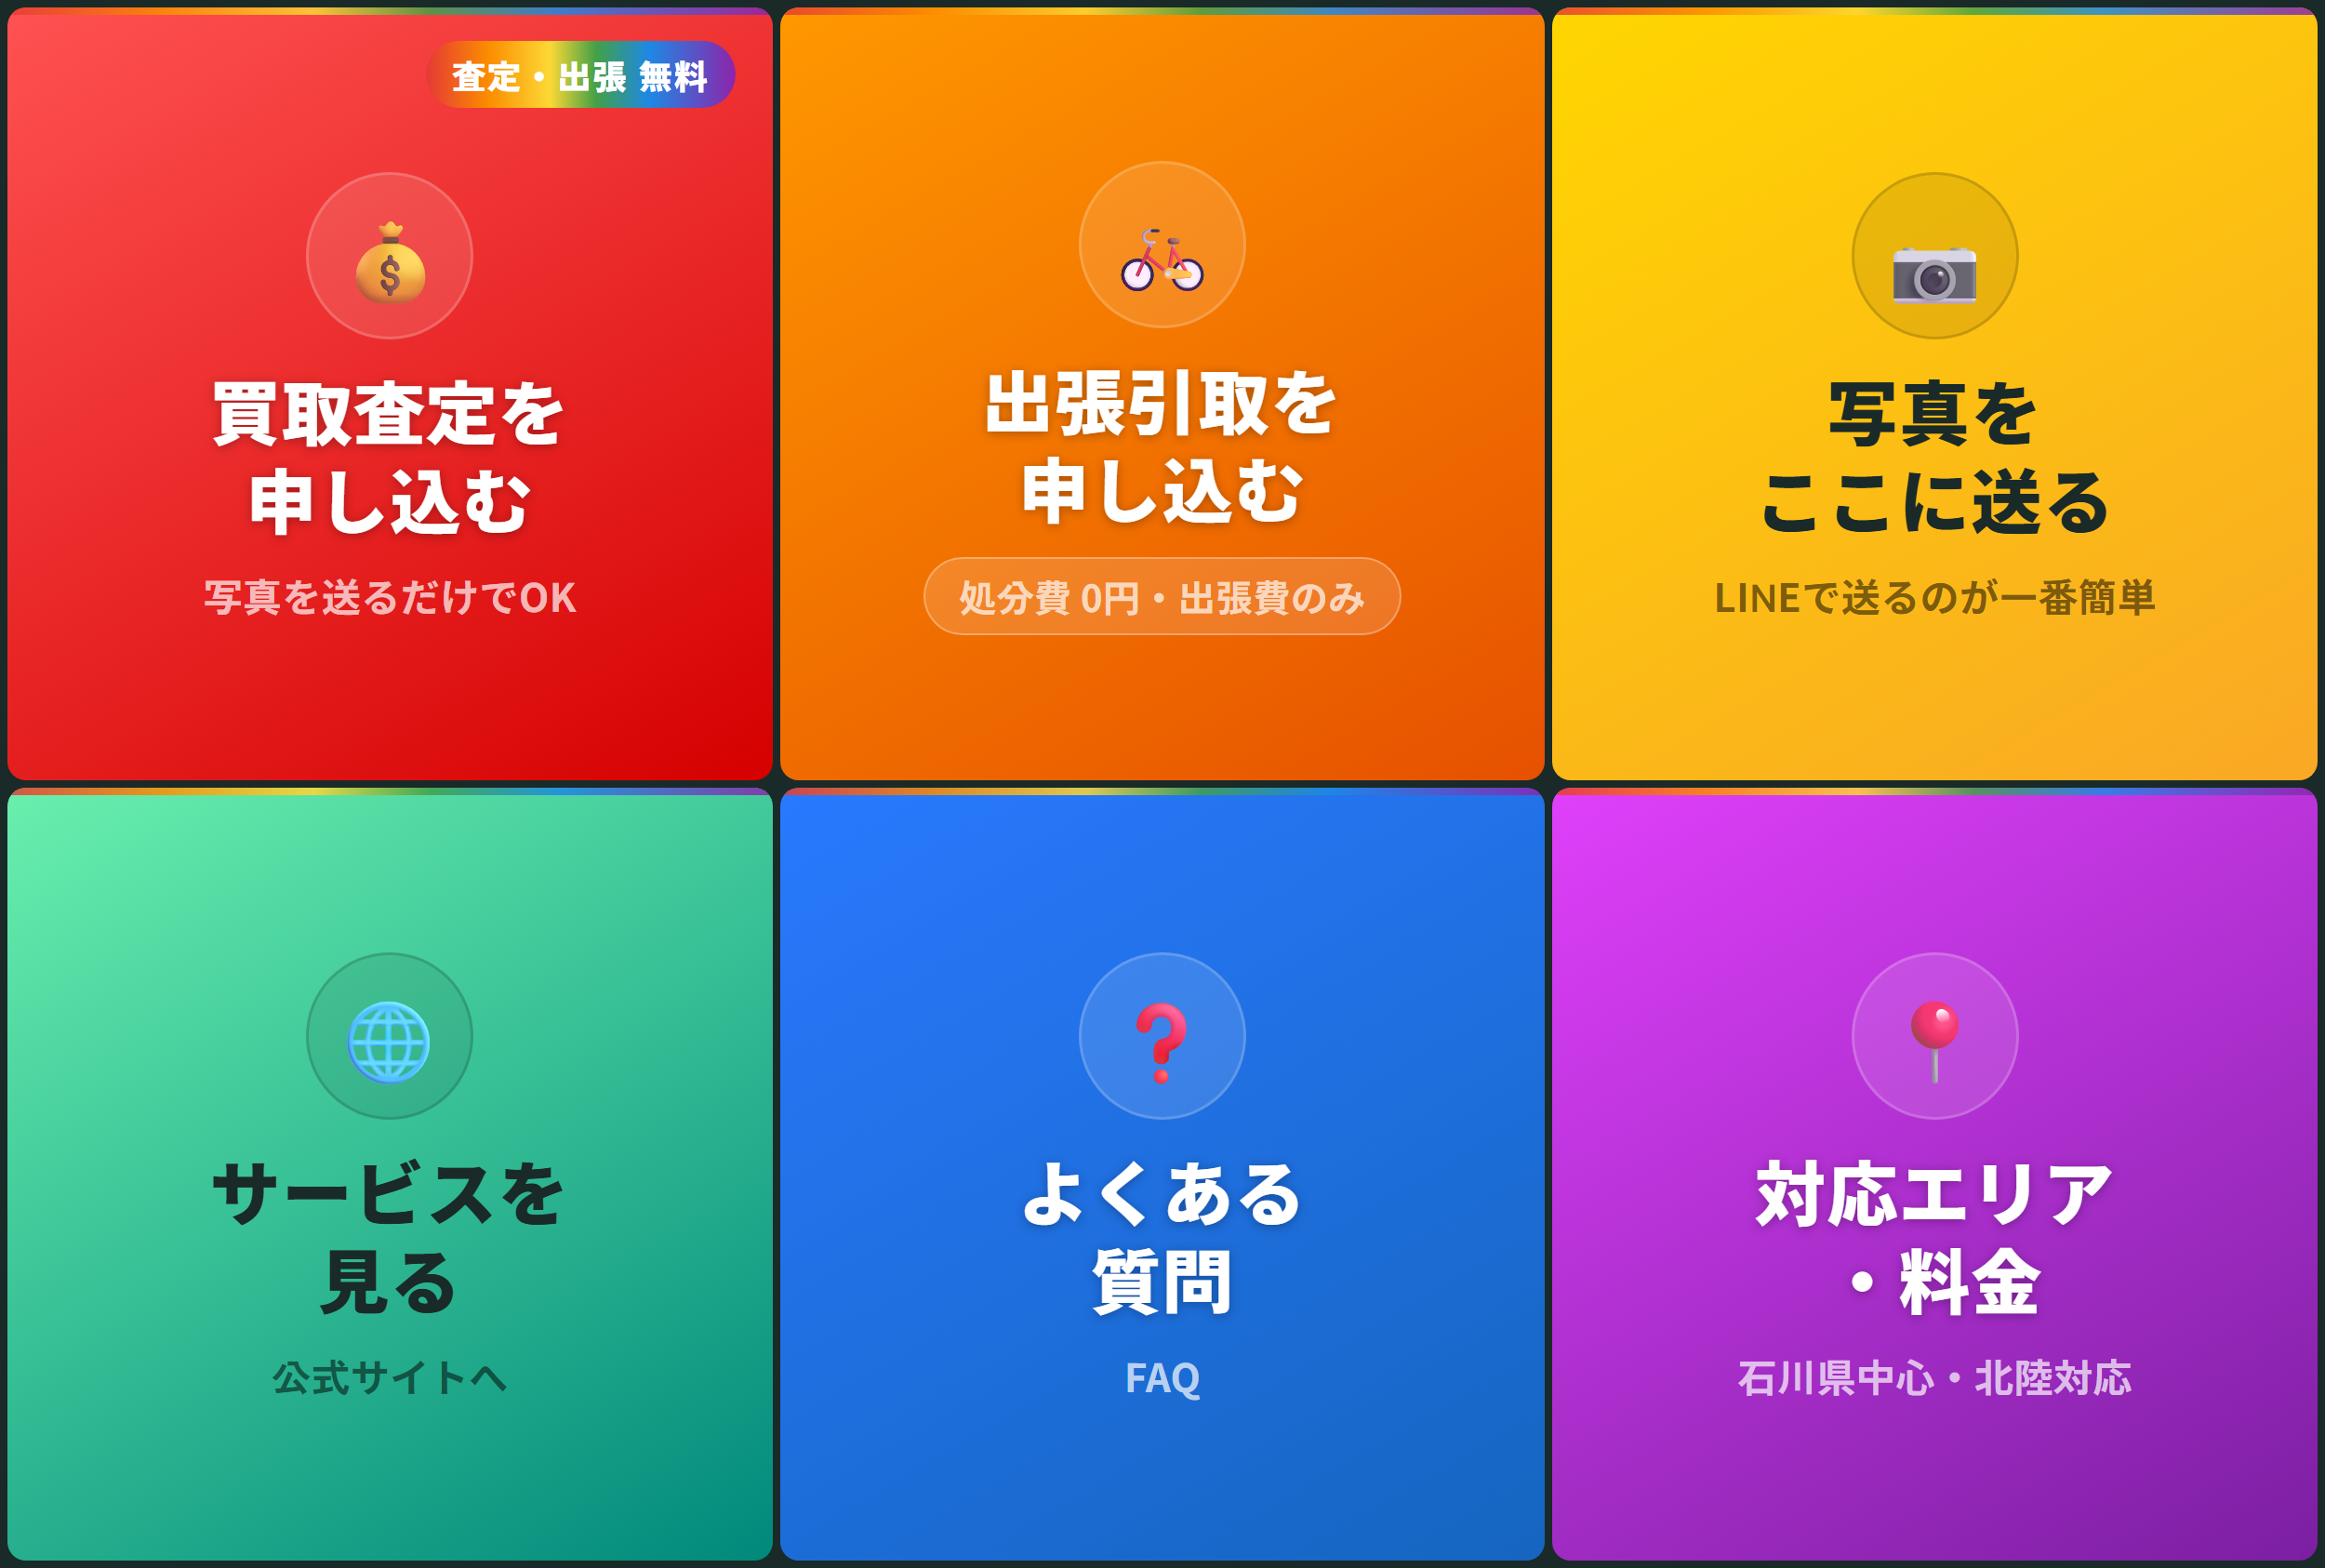
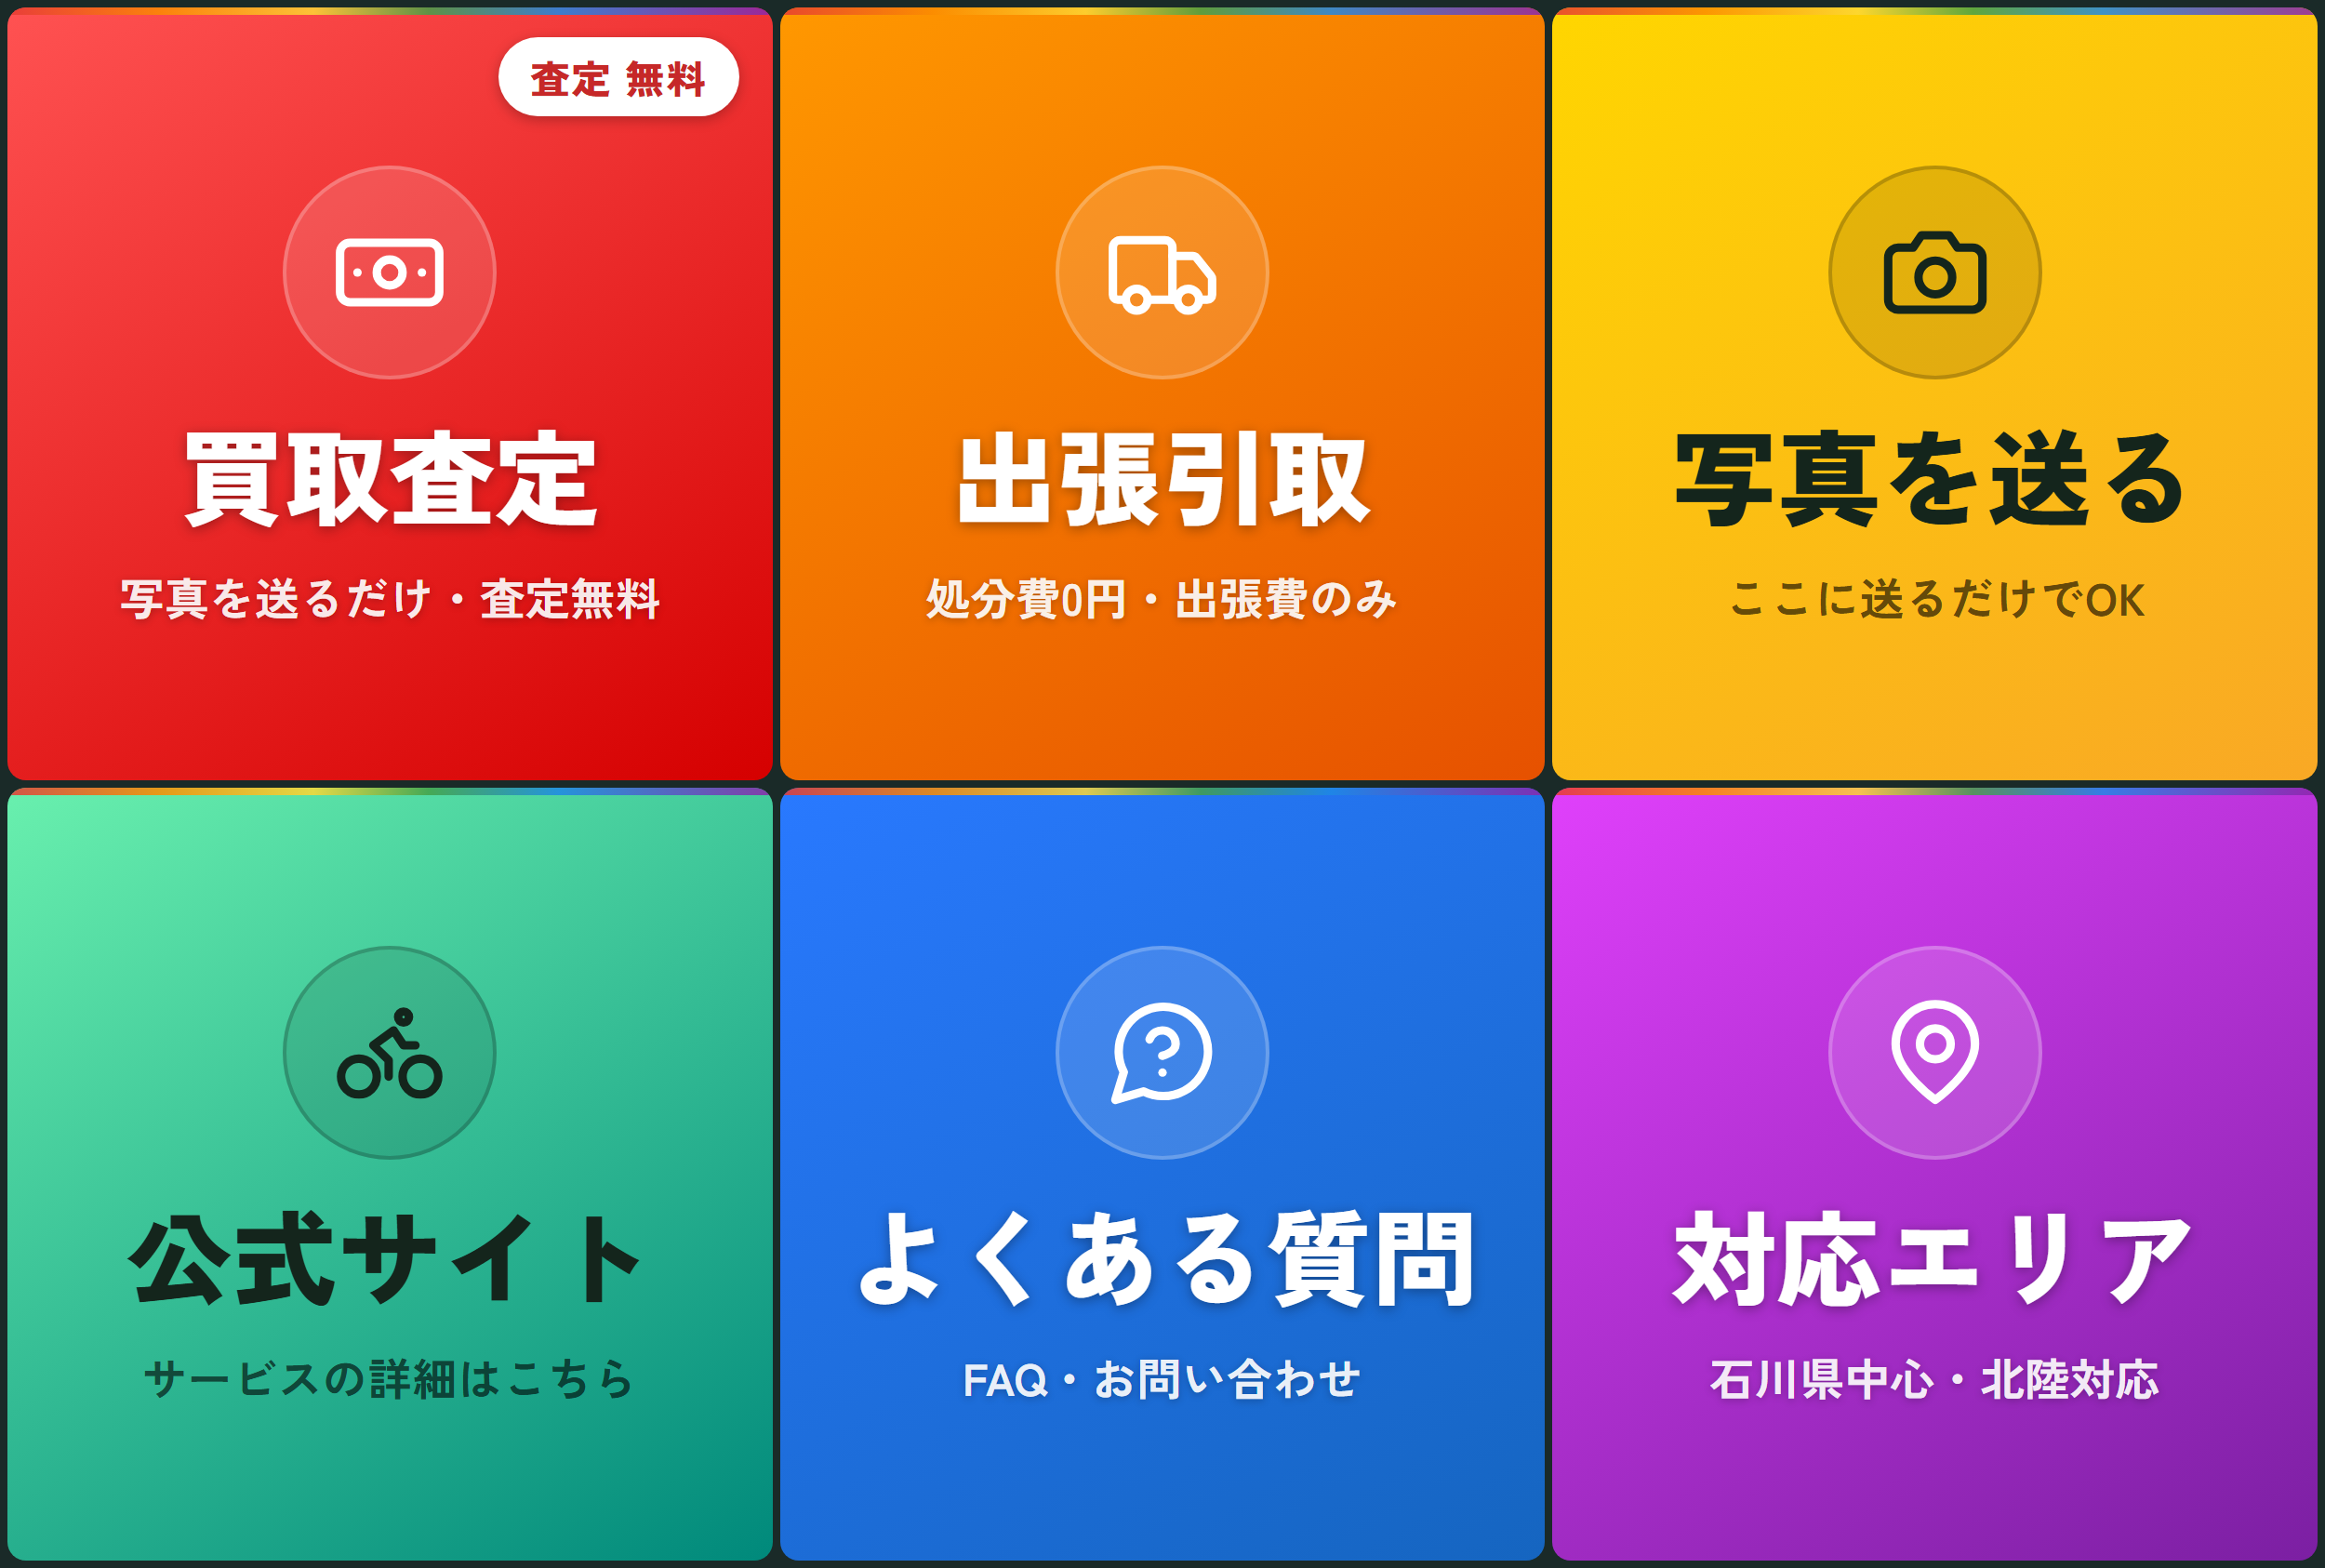
LINEリッチメニュー刷新：文字拡大・線画アイコン化、GAS自動応答ボット追加

diff --git a/line-richmenu.html b/line-richmenu.html
@@ -2,9 +2,9 @@
 <html lang="ja">
 <head>
   <meta charset="UTF-8">
-  <!-- LINE リッチメニュー画像用ファイル
-       DevTools でサイズを 2500×1686 に設定してスクリーンショットを撮影してください -->
-  <link href="https://fonts.googleapis.com/css2?family=Zen+Kaku+Gothic+New:wght@700;900&family=Barlow+Semi+Condensed:wght@600;700&display=swap" rel="stylesheet">
+  <!-- LINE リッチメニュー画像用ファイル (2500×1686)
+       headless Chrome または DevTools でスクリーンショットを撮影 -->
+  <link href="https://fonts.googleapis.com/css2?family=Zen+Kaku+Gothic+New:wght@700;900&display=swap" rel="stylesheet">
   <style>
     * { box-sizing: border-box; margin: 0; padding: 0; }
 
@@ -29,7 +29,6 @@
       height: 100%;
       gap: 8px;
       padding: 8px;
-      background: #18252300;
     }
 
     /* ── 共通セル ── */
@@ -39,10 +38,10 @@
       flex-direction: column;
       align-items: center;
       justify-content: center;
-      gap: 28px;
+      gap: 36px;
       border-radius: 20px;
       overflow: hidden;
-      padding: 56px 40px 48px;
+      padding: 48px 32px 44px;
     }
 
     /* 虹ライン（上部） */
@@ -63,68 +62,74 @@
     .cell-faq    { background: linear-gradient(150deg, #2979FF 0%, #1565C0 100%); } /* 青 */
     .cell-area   { background: linear-gradient(150deg, #E040FB 0%, #7B1FA2 100%); } /* 紫 */
 
-    /* ── アイコン円 ── */
+    /* ── アイコン ── */
     .icon-wrap {
-      width: 180px;
-      height: 180px;
+      width: 230px;
+      height: 230px;
       border-radius: 50%;
-      background: rgba(255,255,255,0.12);
-      border: 3px solid rgba(255,255,255,0.18);
+      background: rgba(255,255,255,0.14);
+      border: 4px solid rgba(255,255,255,0.22);
       display: flex;
       align-items: center;
       justify-content: center;
-      font-size: 90px;
-      line-height: 1;
       flex-shrink: 0;
+    }
+
+    .icon-wrap svg {
+      width: 128px;
+      height: 128px;
+      stroke: #fff;
+      fill: none;
+      stroke-width: 1.7;
+      stroke-linecap: round;
+      stroke-linejoin: round;
     }
 
     /* ── テキスト ── */
     .label {
-      font-size: 76px;
+      font-size: 112px;
       font-weight: 900;
       color: #fff;
       text-align: center;
-      line-height: 1.25;
-      letter-spacing: 0.02em;
-      text-shadow: 0 2px 12px rgba(0,0,0,0.3);
+      line-height: 1.15;
+      letter-spacing: 0.01em;
+      white-space: nowrap;
+      text-shadow: 0 3px 14px rgba(0,0,0,0.35);
     }
 
     .sub {
-      font-size: 42px;
+      font-size: 48px;
       font-weight: 700;
-      color: rgba(255,255,255,0.7);
+      color: rgba(255,255,255,0.92);
       text-align: center;
-      line-height: 1.4;
+      line-height: 1.35;
       letter-spacing: 0.01em;
+      text-shadow: 0 2px 8px rgba(0,0,0,0.25);
     }
 
-    /* 黄色セルは文字を暗くして視認性を確保 */
+    /* 黄・緑セルは文字を暗くして視認性を確保 */
     .cell-photo .label,
-    .cell-site .label  { color: #1a2a28; text-shadow: none; }
+    .cell-site .label  { color: #14251c; text-shadow: none; }
     .cell-photo .sub,
-    .cell-site .sub    { color: rgba(0,0,0,0.5); }
+    .cell-site .sub    { color: rgba(0,0,0,0.62); text-shadow: none; }
     .cell-photo .icon-wrap,
-    .cell-site .icon-wrap { border-color: rgba(0,0,0,0.15); background: rgba(0,0,0,0.08); }
+    .cell-site .icon-wrap { border-color: rgba(0,0,0,0.2); background: rgba(0,0,0,0.1); }
+    .cell-photo .icon-wrap svg,
+    .cell-site .icon-wrap svg { stroke: #14251c; }
 
-    /* ── 無料バッジ（買取査定に追加） ── */
+    /* ── 無料バッジ ── */
     .badge {
       position: absolute;
-      top: 36px;
-      right: 40px;
-      background: var(--rainbow);
-      color: #fff;
-      font-size: 36px;
+      top: 32px;
+      right: 36px;
+      background: #fff;
+      color: #C62828;
+      font-size: 42px;
       font-weight: 900;
-      padding: 10px 28px;
+      padding: 12px 34px;
       border-radius: 999px;
       letter-spacing: 0.05em;
-      text-shadow: none;
-    }
-
-    /* ── 処分費バッジ ── */
-    .badge-green {
-      background: rgba(255,255,255,0.15);
-      border: 2px solid rgba(255,255,255,0.3);
+      box-shadow: 0 4px 14px rgba(0,0,0,0.25);
     }
   </style>
 </head>
@@ -133,44 +138,88 @@
 
     <!-- 1: 買取査定 -->
     <div class="cell cell-buy">
-      <span class="badge">査定・出張 無料</span>
-      <div class="icon-wrap">💰</div>
-      <div class="label">買取査定を<br>申し込む</div>
-      <div class="sub">写真を送るだけでOK</div>
+      <span class="badge">査定 無料</span>
+      <div class="icon-wrap">
+        <!-- 紙幣アイコン -->
+        <svg viewBox="0 0 24 24">
+          <rect x="2" y="6" width="20" height="12" rx="2"/>
+          <circle cx="12" cy="12" r="2.6"/>
+          <path d="M5.5 12h.01"/>
+          <path d="M18.5 12h.01"/>
+        </svg>
+      </div>
+      <div class="label">買取査定</div>
+      <div class="sub">写真を送るだけ・査定無料</div>
     </div>
 
     <!-- 2: 出張引取 -->
     <div class="cell cell-pickup">
-      <div class="icon-wrap">🚲</div>
-      <div class="label">出張引取を<br>申し込む</div>
-      <div class="sub badge-green" style="padding:12px 36px;border-radius:999px;font-size:40px;">処分費 0円・出張費のみ</div>
+      <div class="icon-wrap">
+        <!-- トラックアイコン -->
+        <svg viewBox="0 0 24 24">
+          <path d="M14 17.5V7a1.5 1.5 0 0 0-1.5-1.5H3.5A1.5 1.5 0 0 0 2 7v9.5a1 1 0 0 0 1 1h1.6"/>
+          <path d="M14.9 17.5H9.1"/>
+          <path d="M19.4 17.5h1.6a1 1 0 0 0 1-1v-3.2a1 1 0 0 0-.22-.62l-2.9-3.63a1 1 0 0 0-.78-.38H14"/>
+          <circle cx="17.2" cy="17.5" r="2.2"/>
+          <circle cx="6.8" cy="17.5" r="2.2"/>
+        </svg>
+      </div>
+      <div class="label">出張引取</div>
+      <div class="sub">処分費0円・出張費のみ</div>
     </div>
 
     <!-- 3: 写真を送る -->
     <div class="cell cell-photo">
-      <div class="icon-wrap">📷</div>
-      <div class="label">写真を<br>ここに送る</div>
-      <div class="sub">LINEで送るのが一番簡単</div>
+      <div class="icon-wrap">
+        <!-- カメラアイコン -->
+        <svg viewBox="0 0 24 24">
+          <path d="M14.8 4.5h-5.6L7.5 7H4.5A2 2 0 0 0 2.5 9v8.5a2 2 0 0 0 2 2h15a2 2 0 0 0 2-2V9a2 2 0 0 0-2-2h-3l-1.7-2.5z"/>
+          <circle cx="12" cy="13" r="3.4"/>
+        </svg>
+      </div>
+      <div class="label">写真を送る</div>
+      <div class="sub">ここに送るだけでOK</div>
     </div>
 
-    <!-- 4: サービスを見る -->
+    <!-- 4: 公式サイト -->
     <div class="cell cell-site">
-      <div class="icon-wrap">🌐</div>
-      <div class="label">サービスを<br>見る</div>
-      <div class="sub">公式サイトへ</div>
+      <div class="icon-wrap">
+        <!-- 自転車アイコン -->
+        <svg viewBox="0 0 24 24">
+          <circle cx="18.2" cy="16.8" r="3.6"/>
+          <circle cx="5.8" cy="16.8" r="3.6"/>
+          <circle cx="14.8" cy="4.8" r="1.1"/>
+          <path d="M11.8 16.8V13.5l-3.1-3 4.1-3 2 3h2.4"/>
+        </svg>
+      </div>
+      <div class="label">公式サイト</div>
+      <div class="sub">サービスの詳細はこちら</div>
     </div>
 
     <!-- 5: よくある質問 -->
     <div class="cell cell-faq">
-      <div class="icon-wrap">❓</div>
-      <div class="label">よくある<br>質問</div>
-      <div class="sub">FAQ</div>
+      <div class="icon-wrap">
+        <!-- 吹き出し？アイコン -->
+        <svg viewBox="0 0 24 24">
+          <path d="M8.2 19.8A9 9 0 1 0 4.2 15.9L2.5 21.5Z"/>
+          <path d="M9.4 9.3a2.7 2.7 0 0 1 5.25.9c0 1.8-2.7 2.4-2.7 2.4"/>
+          <path d="M12 16h.01"/>
+        </svg>
+      </div>
+      <div class="label">よくある質問</div>
+      <div class="sub">FAQ・お問い合わせ</div>
     </div>
 
-    <!-- 6: 対応エリア・料金 -->
+    <!-- 6: 対応エリア -->
     <div class="cell cell-area">
-      <div class="icon-wrap">📍</div>
-      <div class="label">対応エリア<br>・料金</div>
+      <div class="icon-wrap">
+        <!-- 地図ピンアイコン -->
+        <svg viewBox="0 0 24 24">
+          <path d="M20 10.2c0 5.6-8 11.3-8 11.3s-8-5.7-8-11.3a8 8 0 0 1 16 0Z"/>
+          <circle cx="12" cy="10.2" r="3.1"/>
+        </svg>
+      </div>
+      <div class="label">対応エリア</div>
       <div class="sub">石川県中心・北陸対応</div>
     </div>
 

diff --git a/line-bot/README.md b/line-bot/README.md
@@ -1,0 +1,72 @@
+# めぐり自転車 LINEボット セットアップ手順
+
+Google Apps Script（GAS）で動く無料の自動応答ボット。`code.gs` を使う。
+
+## できること
+
+- リッチメニュー「写真を送る」タップ → 撮影ガイド（7枚）＋ボタン（📷写真を選ぶ／📸カメラで撮る／⚡電動アシスト）を自動返信
+- 「電動」と送信 → 電動アシスト用の追加ガイド（バッテリー・充電器・鍵）を返信
+- 写真を受信 → お礼メッセージを自動返信（10分に1回まで）
+- それ以外のメッセージには反応しない（手動チャット対応の邪魔をしない）
+
+## 費用
+
+0円。応答メッセージは月200通の無料枠にカウントされない。GASも無料。
+
+## セットアップ手順
+
+### 1. Messaging APIを有効化
+
+1. [LINE Official Account Manager](https://manager.line.biz/) にログイン
+2. 設定 → Messaging API → 「Messaging APIを利用する」
+3. プロバイダー名は「めぐり自転車」などで新規作成
+
+### 2. チャネルアクセストークンを発行
+
+1. [LINE Developers](https://developers.line.biz/console/) にLINEアカウントでログイン
+2. 作成されたチャネルを開く → 「Messaging API設定」タブ
+3. 一番下の「チャネルアクセストークン（長期）」で「発行」を押してコピー
+
+### 3. GASプロジェクトを作成
+
+1. [script.google.com](https://script.google.com/) → 「新しいプロジェクト」
+2. `code.gs` の中身を全部貼り付け
+3. 1行目付近の `CHANNEL_ACCESS_TOKEN = 'ここに...'` にコピーしたトークンを貼る
+4. 右上「デプロイ」→「新しいデプロイ」→ 種類「ウェブアプリ」
+   - 次のユーザーとして実行：**自分**
+   - アクセスできるユーザー：**全員**
+5. 「デプロイ」→ 表示された **ウェブアプリのURL** をコピー
+
+### 4. WebhookをLINEに登録
+
+1. LINE Developers → チャネル → Messaging API設定タブ
+2. 「Webhook URL」にGASのURLを貼り付けて「更新」→「検証」
+3. 「Webhookの利用」をONにする
+
+### 5. 応答設定を調整（重要）
+
+LINE Official Account Manager → 設定 → 応答設定：
+
+- チャット：**ON**（手動対応を残す）
+- Webhook：**ON**
+- 応答メッセージ：**OFF**（ボットと二重返信になるため。キーワード応答を設定していた場合は削除）
+
+### 6. 動作テスト
+
+自分のスマホで友だち追加したアカウントに対して：
+
+1. リッチメニュー「写真を送る」をタップ → ガイドとボタン3つが返ってくる
+2. 「⚡電動アシストの方はこちら」ボタン → 電動用ガイドが返ってくる
+3. 「📷 写真を選ぶ」ボタン → スマホの写真選択が開く
+4. 写真を送る → お礼メッセージが返ってくる
+
+## 文言を変えたいとき
+
+`code.gs` の `replyPhotoGuide` / `replyEbikeGuide` / `thankForPhoto` 内のテキストを編集 →
+保存 → 「デプロイ」→「デプロイを管理」→ 鉛筆アイコン → バージョン「新バージョン」→「デプロイ」。
+（新バージョンでデプロイし直さないと反映されないので注意）
+
+## 注意
+
+- チャネルアクセストークンは秘密情報。GAS内にのみ貼り、Gitにはコミットしない
+- カメラ／カメラロールのボタンはスマホ版LINEのみ表示（PC版では出ない）